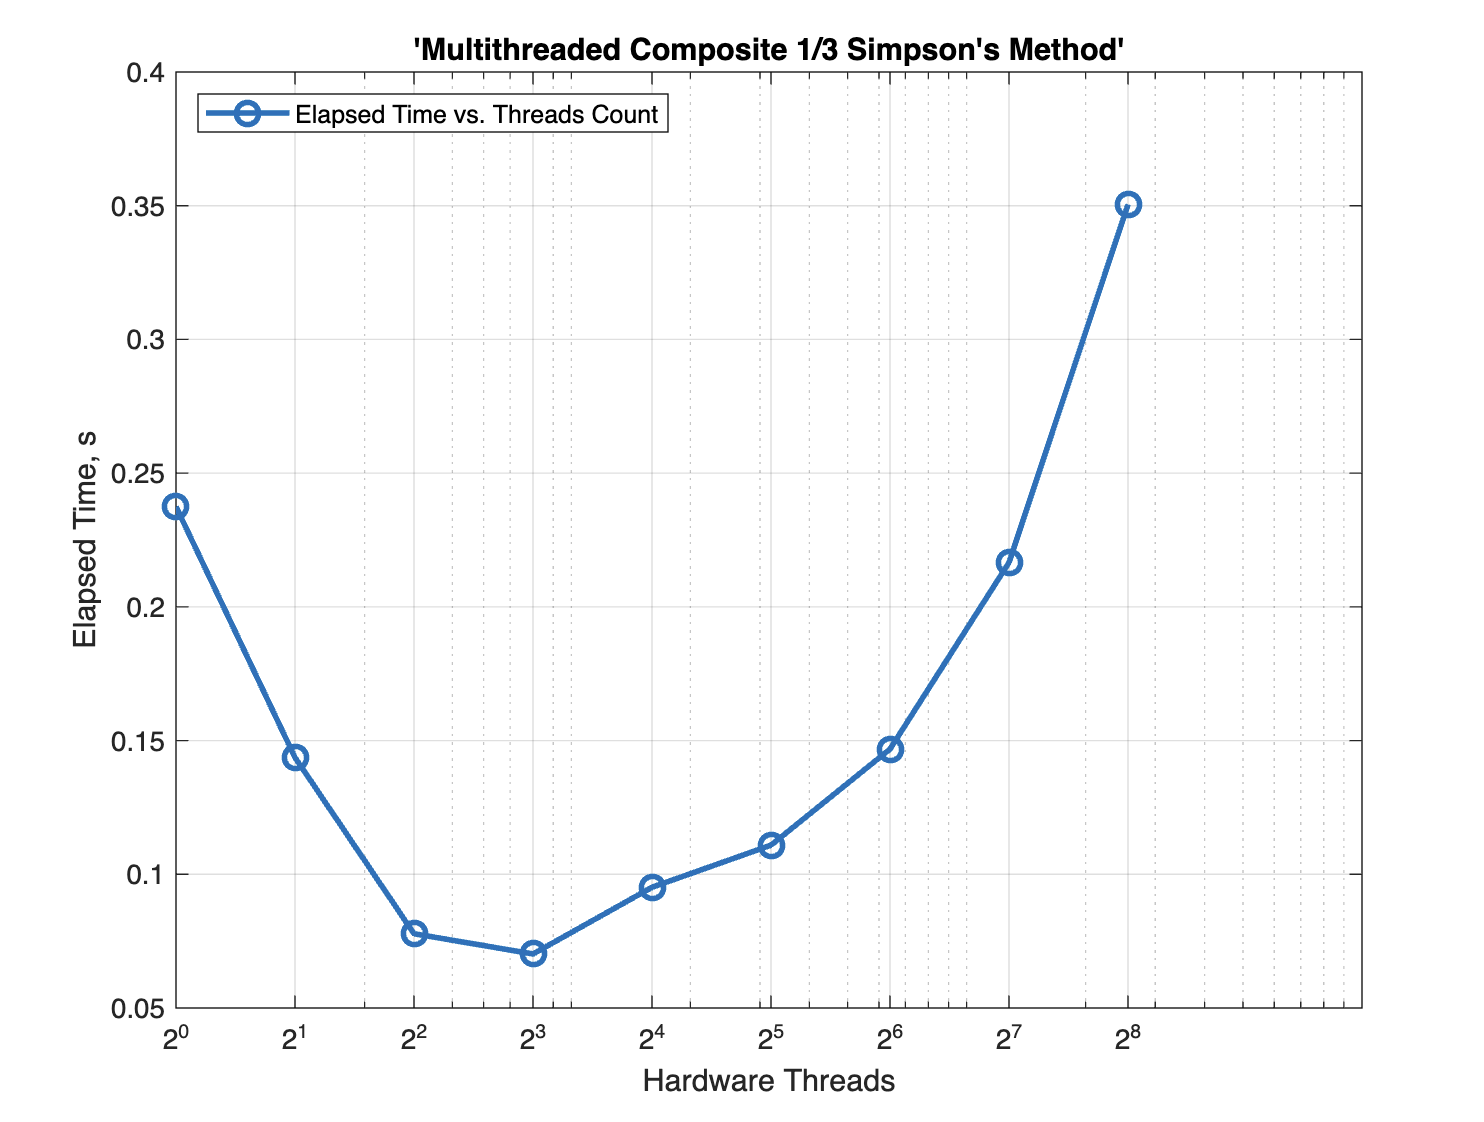
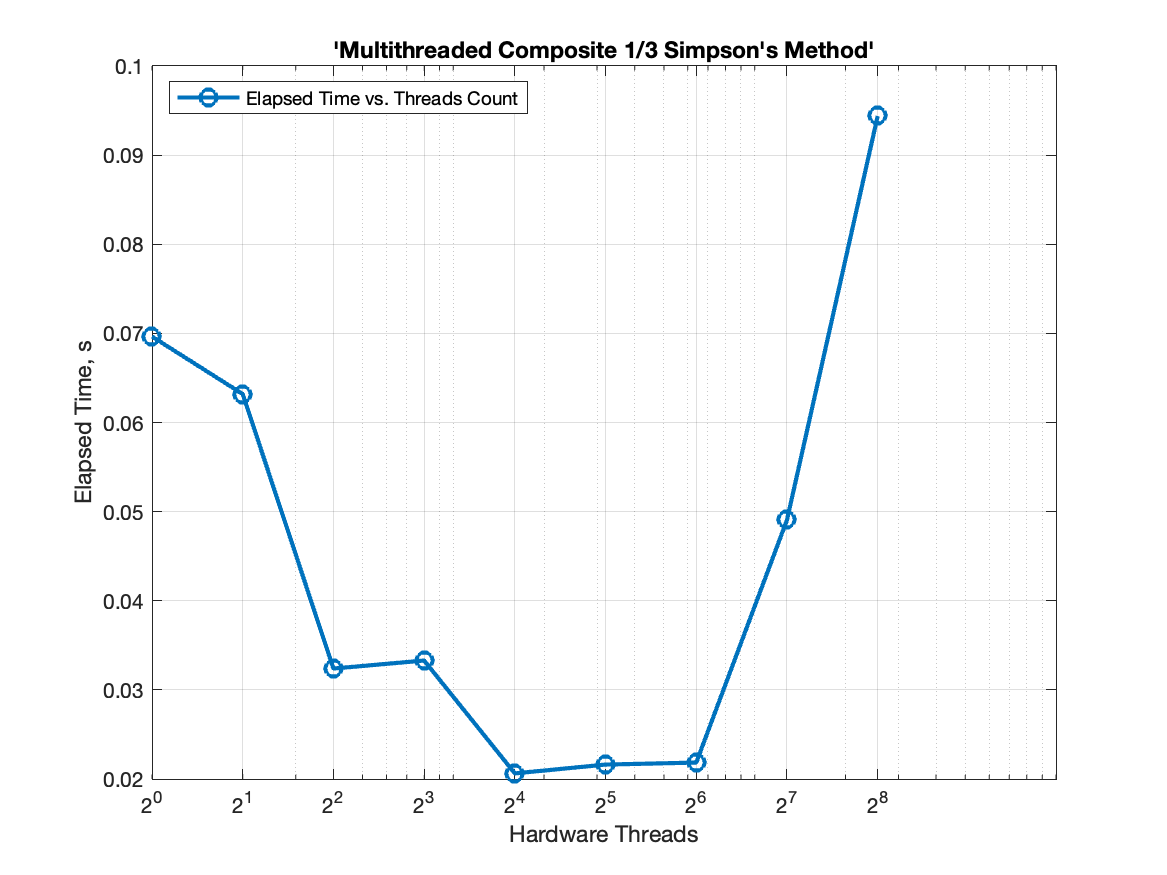
Make updates

diff --git a/P05/HW5.m b/P05/HW5.m
@@ -1,0 +1,27 @@
+HostCPU = [0.005000, 0.008000, 0.014000, 0.028000, 0.054000, 0.107000, 0.213000, 0.433000, 0.850000];
+DeviceGPU = [0.253952, 0.321536, 0.328704, 0.323584, 0.321536, 0.263584, 0.348672, 0.263808, 0.324832];
+N = [1024, 2048, 4096, 8192, 16384, 32768, 65536, 131072, 262144]; % Powers of 2
+
+% Plot settings
+figure;
+hold on;
+plot(N, HostCPU, '-o', 'LineWidth', 2, 'MarkerSize', 8, 'DisplayName', 'Host CPU');
+plot(N, DeviceGPU, '-o', 'LineWidth', 2, 'MarkerSize', 8, 'Color', 'r', 'DisplayName', 'Device GPU');
+hold off;
+
+% Formatting
+xlabel('Number of Summations (N)');
+ylabel('Elapsed Time (s)');
+title('CPU vs. GPU Performance');
+grid on;
+
+% Customize x-axis ticks and scale
+set(gca, 'XScale', 'log');
+set(gca, 'xtick', N);
+set(gca, 'xticklabels', {'2^{10}', '2^{11}', '2^{12}', '2^{13}', '2^{14}', '2^{15}', '2^{16}', '2^{17}', '2^{18}'});
+
+% Legend
+legend('Location', 'northwest');
+
+% Save Plot
+saveas(gcf, 'CPUvsGPUPerformance.png');

diff --git a/P03/HW3.m b/P03/HW3.m
@@ -1,5 +1,5 @@
 threads = [1, 2, 4, 8, 16, 32, 64, 128, 256]; % Powers of 2
-time = [0.237467, 0.143676, 0.0777716, 0.0702072, 0.0951428, 0.110896, 0.146824, 0.216615, 0.350486];
+time = [0.0696441, 0.0631901, 0.0323925, 0.033294, 0.0206279, 0.0216191, 0.0218429, 0.0490641, 0.0943903];
 
 % Plot settings
 figure;
@@ -16,3 +16,6 @@ set(gca, 'XScale', 'log');
 
 % Legend
 legend('Elapsed Time vs. Threads Count', 'Location', 'northwest');
+
+% Save Plot
+saveas(gcf,'TimevsThreads.png');
